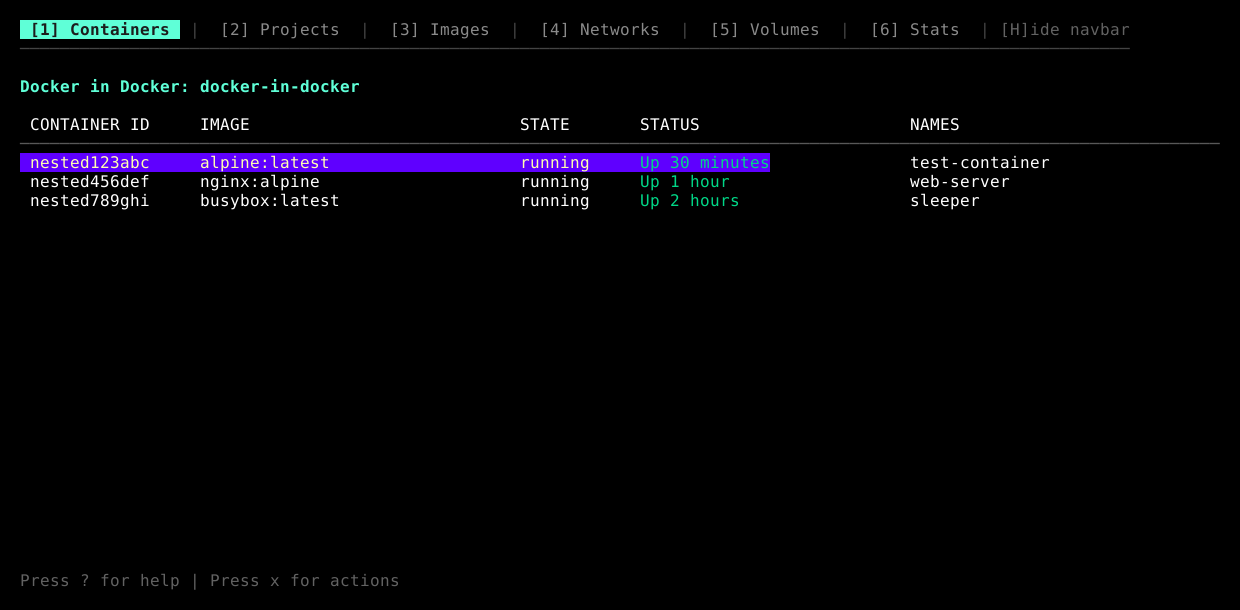
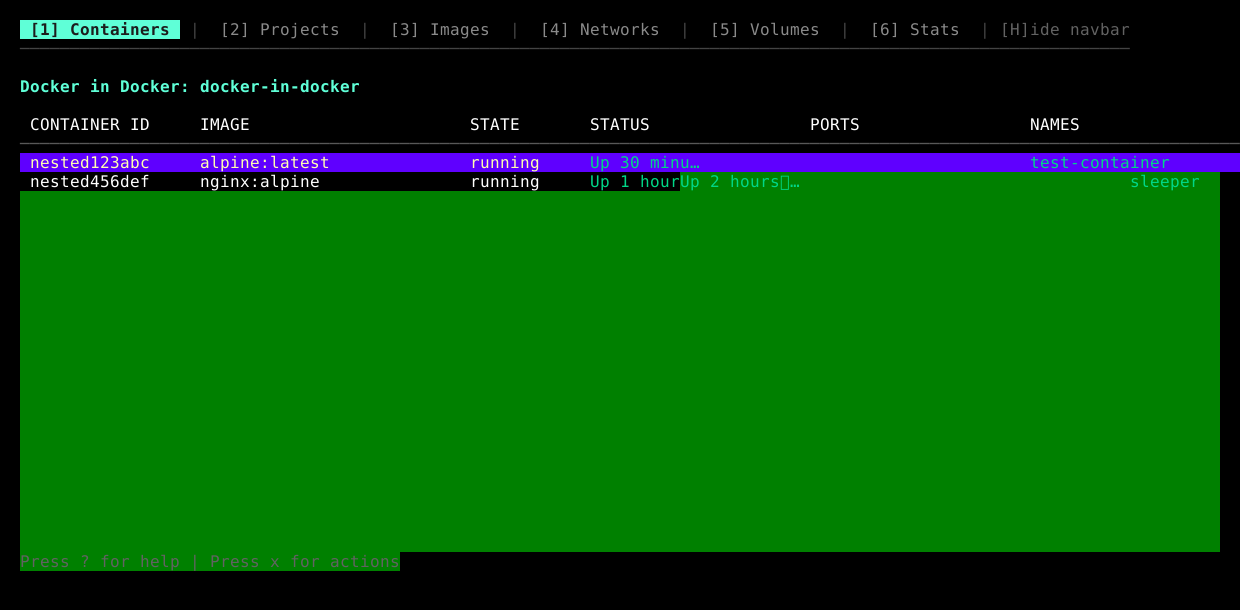
fix: show port numbers in DIND container list view
- Add PORTS column to DIND container list table
- Adjust column widths to accommodate port information
- Include ports in searchable text for container filtering
- Add test case to verify port display functionality
- Maintain consistency with regular Docker container list view

Fixes #253

🤖 Generated with [Claude Code](https://claude.ai/code)

diff --git a/internal/ui/view_dind_process_list.go b/internal/ui/view_dind_process_list.go
@@ -67,7 +67,7 @@ func (m *DindProcessListViewModel) performSearch() {
 	for i, container := range m.dindContainers {
 		// Create searchable text from container fields
 		searchableText := container.ID + " " + container.Image + " " +
-			container.Names + " " + container.Status
+			container.Names + " " + container.Status + " " + container.Ports
 
 		if m.MatchContainer(searchableText) {
 			results = append(results, i)
@@ -94,10 +94,11 @@ func (m *DindProcessListViewModel) render(availableHeight int) string {
 	// Create table
 	columns := []table.Column{
 		{Title: "CONTAINER ID", Width: 15},
-		{Title: "IMAGE", Width: 30},
+		{Title: "IMAGE", Width: 25},
 		{Title: "STATE", Width: 10},
-		{Title: "STATUS", Width: 25},
-		{Title: "NAMES", Width: 30},
+		{Title: "STATUS", Width: 20},
+		{Title: "PORTS", Width: 20},
+		{Title: "NAMES", Width: 25},
 	}
 
 	rows := make([]table.Row, 0, len(m.dindContainers))
@@ -110,8 +111,8 @@ func (m *DindProcessListViewModel) render(availableHeight int) string {
 
 		// Truncate image name
 		image := container.Image
-		if len(image) > 30 {
-			image = image[:27] + "..."
+		if len(image) > 25 {
+			image = image[:22] + "..."
 		}
 
 		state := container.State
@@ -136,7 +137,13 @@ func (m *DindProcessListViewModel) render(availableHeight int) string {
 			}
 		}
 
-		rows = append(rows, table.Row{id, image, state, status, name})
+		// Truncate ports if too long
+		ports := container.Ports
+		if len(ports) > 20 {
+			ports = ports[:17] + "..."
+		}
+
+		rows = append(rows, table.Row{id, image, state, status, ports, name})
 	}
 
 	return RenderTable(columns, rows, availableHeight, m.selectedDindContainer)

diff --git a/internal/ui/view_dind_process_list_test.go b/internal/ui/view_dind_process_list_test.go
@@ -76,7 +76,26 @@ func TestDindProcessListViewModel_Rendering(t *testing.T) {
 				hostContainer:         docker.NewDindContainer("host-1", "host-container", "container-1", "test", "running"),
 			},
 			height:   20,
-			expected: []string{"very-long-registry-url.exa"},
+			expected: []string{"very-long-registry-url..."},
+		},
+		{
+			name: "displays port mappings",
+			viewModel: DindProcessListViewModel{
+				dindContainers: []models.DockerContainer{
+					{
+						ID:     "def456ghi789",
+						Image:  "nginx:latest",
+						State:  "running",
+						Status: "Up 10 minutes",
+						Ports:  "0.0.0.0:8080->80/tcp",
+						Names:  "web-server",
+					},
+				},
+				selectedDindContainer: 0,
+				hostContainer:         docker.NewDindContainer("host-1", "host-container", "container-1", "test", "running"),
+			},
+			height:   20,
+			expected: []string{"PORTS", "0.0.0.0:8080->80/tcp"},
 		},
 	}
 
